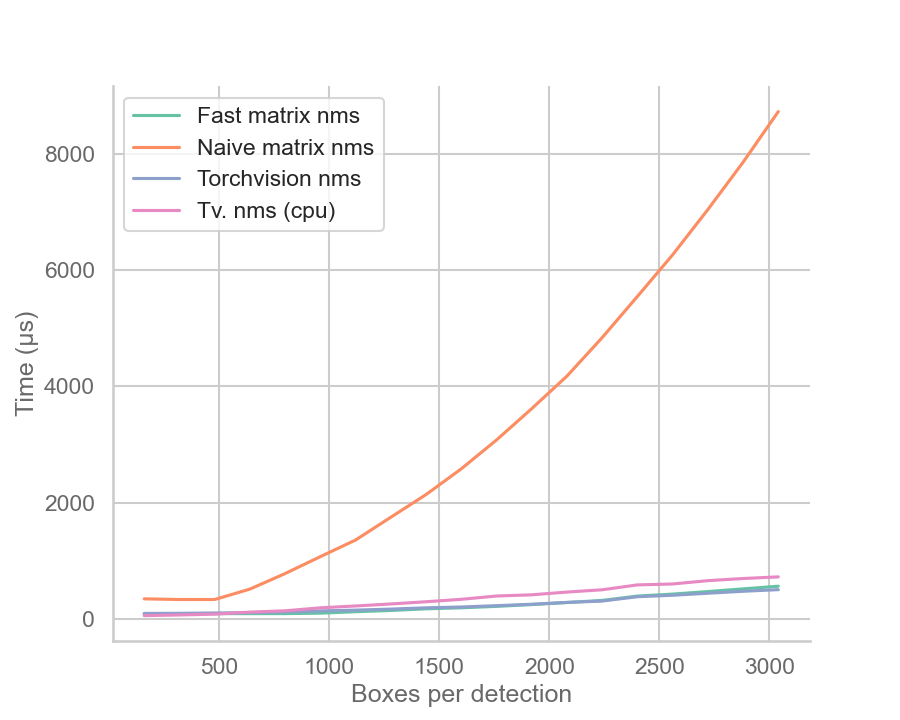
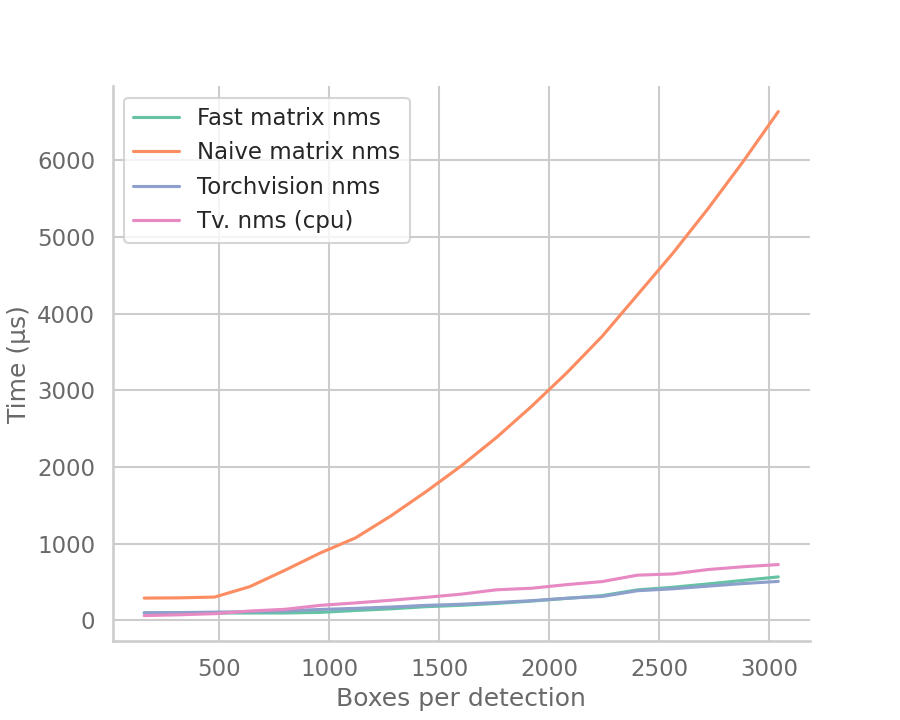
Update

diff --git a/speedtest.py b/speedtest.py
@@ -1,8 +1,8 @@
 import torch
 import numpy as np
 from torchvision.ops import nms
-
-from matrix_nms import matrix_nms
+from tqdm import trange
+from matrix_nms import fast_matrix_nms
 from torchvision.ops import nms
 from matrix_nms_torch import matrix_nms as naive_matrix_nms
 import torch.utils.benchmark as benchmark
@@ -31,15 +31,15 @@ if __name__ == "__main__":
     np.random.seed(0)
     torch.manual_seed(0)
     results = []
-    for size in range(160, 3200, 160):
+    for size in trange(160, 3201, 160):
         boxes, scores = random_box(size)
         results.append(
             benchmark.Timer(
                 "matrix_nms(boxes, scores, 0.4)",
-                globals={"matrix_nms": matrix_nms, "boxes": boxes, "scores": scores},
+                globals={"matrix_nms": fast_matrix_nms, "boxes": boxes, "scores": scores},
                 label=f"Non-max suppression",
                 sub_label=f"{size}",
-                description="Matrix NMS CUDA",
+                description="Fast Matrix NMS",
             ).blocked_autorange(min_run_time=2)
         )
         results.append(
@@ -61,18 +61,19 @@ if __name__ == "__main__":
                 },
                 label=f"Non-max suppression",
                 sub_label=f"{size}",
-                description="Matrix NMS CPU",
+                description="Naive Matrix NMS",
             ).blocked_autorange(min_run_time=2)
         )
         results.append(
             benchmark.Timer(
-                "nms(boxes.cpu(), scores.cpu(), 0.1)",
-                globals={"nms": nms, "boxes": boxes, "scores": scores},
+                "nms(boxes, scores, 0.1)",
+                globals={"nms": nms, "boxes": boxes.cpu(), "scores": scores.cpu()},
                 label=f"Non-max suppression",
                 sub_label=f"{size}",
                 description="Torchvision NMS CPU",
             ).blocked_autorange(min_run_time=2)
         )
+
 
     compare = benchmark.Compare(results)
     compare.print()

diff --git a/matrix_nms_torch.py b/matrix_nms_torch.py
@@ -1,17 +1,18 @@
 import torch
 
 
-def iou_matrix(a, b, norm=True):
-    tl_i = torch.maximum(a[:, None, :2], b[:, :2])
-    br_i = torch.minimum(a[:, None, 2:], b[:, 2:])
+def self_iou_matrix(boxes):
+    area = (boxes[:, 2] - boxes[:, 0]) * (boxes[:, 3] - boxes[:, 1])
 
-    pad = not norm and 1 or 0
+    lt = torch.max(boxes[:, None, :2], boxes[:, :2])  # [N,M,2]
+    rb = torch.min(boxes[:, None, 2:], boxes[:, 2:])  # [N,M,2]
 
-    area_i = torch.prod(br_i - tl_i + pad, axis=2) * (tl_i < br_i).all(axis=2)
-    area_a = torch.prod(a[:, 2:] - a[:, :2] + pad, axis=1)
-    area_b = torch.prod(b[:, 2:] - b[:, :2] + pad, axis=1)
-    area_o = area_a[:, None] + area_b - area_i
-    return area_i / (area_o + 1e-10)
+    wh = (rb - lt).clamp(min=0)  # [N,M,2]
+    inter = wh[:, :, 0] * wh[:, :, 1]  # [N,M]
+
+    union = area[:, None] + area - inter
+
+    return torch.triu(inter / (union + 1e-10), diagonal=1)
 
 
 def matrix_nms(
@@ -35,23 +36,25 @@ def matrix_nms(
     Returns:
         selected_indices: [M] int array.
     """
-    N = boxes.shape[0]
     # Sort by conf
     scores, sorted_indices = scores.sort(descending=True)
     boxes = boxes[sorted_indices]
 
     # IoU matrix
-    ious = iou_matrix(boxes, boxes)
-    ious = torch.triu(ious, diagonal=1)
+    ious = self_iou_matrix(boxes)
+
+    # p(f_i) estimation & enable broadcasting
     ious_cmax = ious.max(0)[0].view(-1, 1)
 
-    # Post threshold
+    # Decay factor
     if use_gaussian:
         decay = torch.exp((ious_cmax.square() - ious.square()) / gaussian_sigma)
     else:
         decay = (1 - ious) / (1 - ious_cmax)
     decay = decay.min(0)[0]
-    decayed_scores = scores * decay
 
+    # Select boxes
+    decayed_scores = scores * decay
     indices = torch.where(decayed_scores > threshold)[0]
+
     return sorted_indices[indices]
